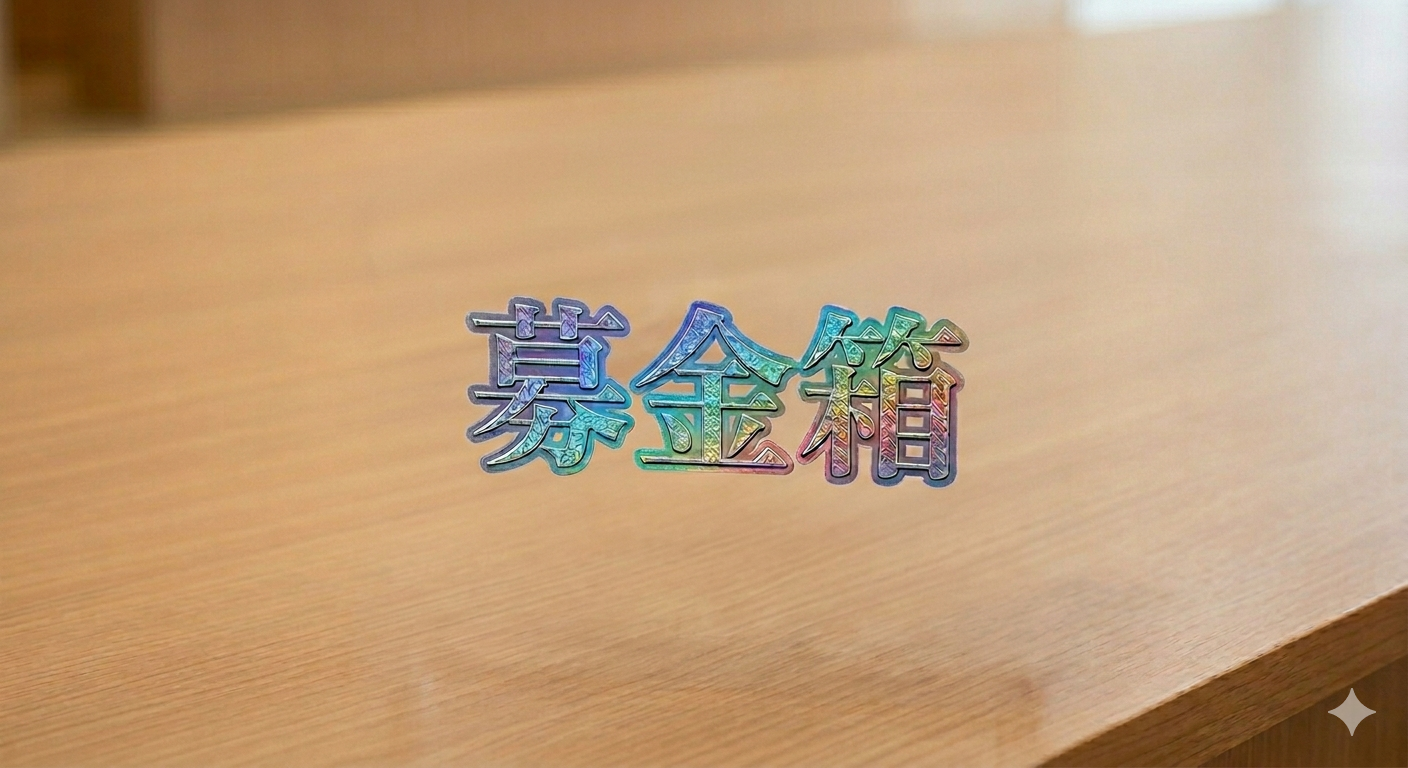
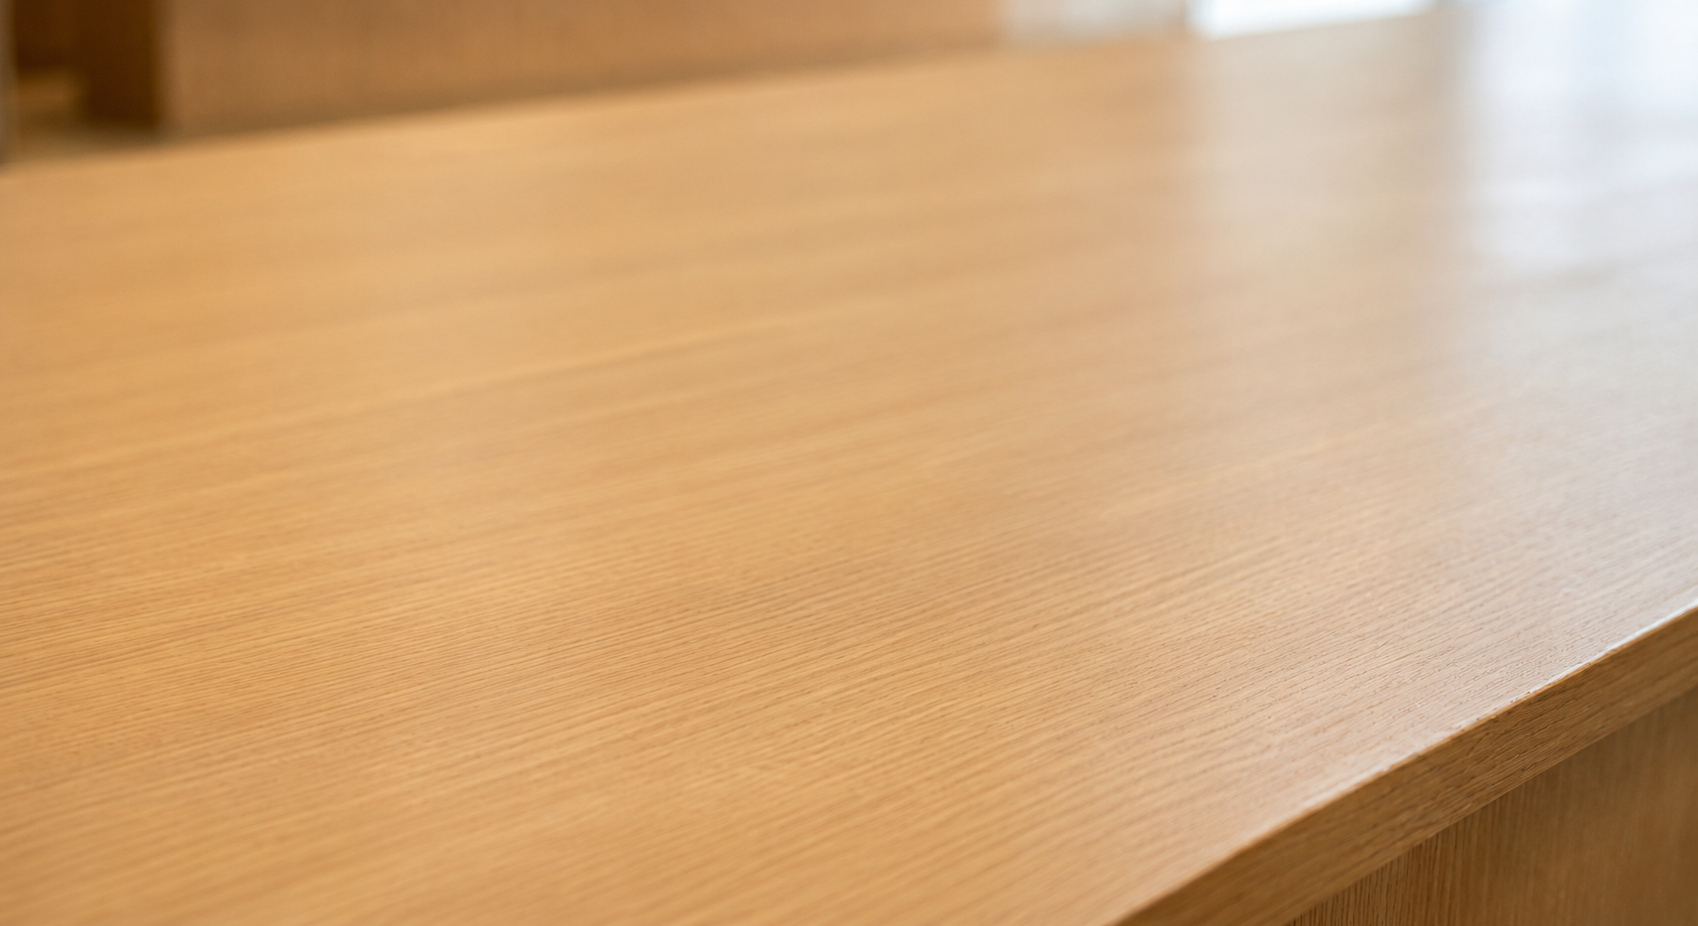
画像修正とLASTSTEP1修正

diff --git a/src/constants/gameData.ts b/src/constants/gameData.ts
@@ -107,7 +107,7 @@ export const GAME_STEPS: StepData[] = [
     unlockedPhotosAtTheme: ['D','E','F'],
     unlockedLocationItems: {
       D: ['紙パック'],
-      E: ['個包装のパック'],
+      E: ['パック'],
       F: ['短い個包装パック（左）', '長い個包装パック（右）']
     },
     partnerEvents: [
@@ -149,9 +149,6 @@ export const GAME_STEPS: StepData[] = [
       G: ['浴衣'],
       F: ['ドライヤー', 'ハブラシ', 'カミソリ']
     },
-    partnerEvents: [
-      { targetPhoto: 'E', displayPhotoName: '？', message: '球体のような形のものがないだろうか？' }
-    ],
   },
   {
     id: 4,
@@ -161,11 +158,16 @@ export const GAME_STEPS: StepData[] = [
     puzzleAnswer: 'だい',
     acceptedPuzzleAnswers: ['台'],
     showBlueAnswerEffect: true,
-    searchTarget: { location: 'E', position: '上', item: '浴衣' },
+    searchTarget: { location: 'G', position: '上', item: '浴衣' },
     unlockedPhotos: ['H'],
     updatedPhotosAtTheme: {'A': 'A4', 'F': 'F3', 'I': 'I2' }, 
+    unlockedPhotosAtTheme: ['K'],
     unlockedLocationItems: {
-      H: ['酒瓶','焼酎']
+      A: ['机'],
+      I: ['卓球台'],
+      K: ['カウンター'],
+      F: ['洗面台'],
+      H: ['酒瓶']
     },
   },
   {
@@ -181,8 +183,8 @@ export const GAME_STEPS: StepData[] = [
       acceptedAnswers: ['おんせんまんじゅう', 'オンセンマンジュウ', 'まんじゅう', '饅頭', 'マンジュウ'],
     },
     showBlueAnswerEffect: true,
-    searchTarget: { location: 'H', position: '右', item: 'アルミ缶(右)' },
-    unlockedPhotos: ['I'],
+    searchTarget: { location: 'H', position: '右', item: '酒瓶' },
+    unlockedPhotos: [],
     updatedPhotosAtPuzzle: {'A': 'A6', 'H': 'H2' },
     unlockedLocationItems: {
       A: ['墨汁', '饅頭', '盆', '扇子', 'イス'],
@@ -197,15 +199,6 @@ export const GAME_STEPS: StepData[] = [
           unlockItem: 'アルミ缶(右)',
           successMessage: 'どちらも形状も大きさも同じだが、見分けるのが得意でね...右がアルミ缶だ！！'
         },
-       },
-       { targetPhoto: 'H', displayPhotoName: '？', message: 'では左は何だ？',
-        questionAnswer: {
-          answer: 'スチール缶',
-          acceptedAnswers: ['すちーるかん', 'スチール缶', 'すちーるかん'],
-          unlockLocation: 'D',
-          unlockItem: 'スチール缶（左）',
-          successMessage: 'ルールによると、形状も大きさも同じ場合、物の種類が変わらないと可視化されない...。似ていることを考慮すると、左がスチール缶だ！！'
-        },
        }
     ],
   },
@@ -214,9 +207,13 @@ export const GAME_STEPS: StepData[] = [
     title: '提出場所：「く」',
     puzzleImage: '/images/step6.png',
     themeText: '尻に敷かれるもの',
-    puzzleAnswer: '6',
+    puzzleAnswer: 'ホログラム',
+    showBlueAnswerEffect: true,
+    unlockedPhotosAtTheme: [],
+    acceptedPuzzleAnswers: ['ほろぐらむ', 'hologram'],
     searchTarget: { location: 'A', position: '上', item: 'イス' },
     unlockedPhotos: ['J'],
+     updatedPhotosAtTheme: {'K': 'K2' },
     unlockedLocationItems: {
       J: ['体重計']
     },
@@ -226,9 +223,10 @@ export const GAME_STEPS: StepData[] = [
     title: '提出場所：「け」',
     puzzleImage: '/images/step7.png',
     themeText: '蜘蛛',
-    puzzleAnswer: '7',
+    puzzleAnswer: 'かんち',
+    acceptedPuzzleAnswers: ['完治', 'カンチ'],
     searchTarget: { location: 'J', position: '下', item: 'きつね' },
-    unlockedPhotos: ['K'],
+    unlockedPhotos: ['L'],
     unlockedLocationItems: {
       K: ['暖簾', '募金箱']
     },
@@ -241,7 +239,7 @@ export const LAST_STEP_SUBMISSIONS: LastStepSubmissionData[] = [
   { stepIndex: 2, label: '1-5', originalSubmittedItem: 'ライオンの銅像', retryItem: '机' },
   { stepIndex: 3, label: '2', originalSubmittedItem: '卵', retryItem: '横川' },
   { stepIndex: 4, label: '3', originalSubmittedItem: 'バスボール', retryItem: 'ピンポン玉' },
-  { stepIndex: 5, label: '4', originalSubmittedItem: 'ハンガー', retryItem: 'お金' },
+  { stepIndex: 5, label: '4', originalSubmittedItem: 'ハンガー', retryItem: '10円玉' },
   { stepIndex: 6, label: '5', originalSubmittedItem: '缶', retryItem: '1円玉' },
   { stepIndex: 7, label: '6', originalSubmittedItem: '座布団', retryItem: '座布団' },
   { stepIndex: 8, label: '7', originalSubmittedItem: '蜘蛛', retryItem: '蜘蛛', isPending: true },

diff --git a/src/components/GameInterface.tsx b/src/components/GameInterface.tsx
@@ -45,13 +45,13 @@ const CUT_IN_LINES = {
     { speaker: '相棒', text: 'あと一つ提出するだけだ！' },
     { speaker: 'ゲームマスター', text: '残念ですが、提出場所「お」が、たった今正解から不正解判定に変わりました' },
     { speaker: '相棒', text: '何だって！？謎の球体が一度正解になったのに、不正解に変わったの...か？ひとまず「お」の場所を見に行ってみるよ' },
-    { speaker: 'ゲームマスター', text: '一度不正解となったため、全てを再提出してもらいます。ただし、別解があるお題では同じものだと不正解となります。それに伴い、新たな機能もとい制約が解放されました' },
-    { speaker: 'ゲームマスター', text: '転送対象の名称まで指定することができるようになりました。名称を指定した場合、同時に複数個転送することもできます' },
-    { speaker: 'ゲームマスター', text: '我々はフェアさを大事にしているので、一つだけアドバイスを差し上げましょう。「お」を確認した後は、ひとまずお題「かけるもの」を再提出してみましょう' },
+    { speaker: 'ゲームマスター', text: '一度不正解となったため、全てを再提出してもらいます。ただし、別解があるお題では別解での回答してください。さらに、新たな制約が追加されました' },
+    { speaker: 'ゲームマスター', text: 'その制約とは、転送対象の名称の指定の必須化。名称を指定した場合、該当するものが同時に複数個転送されます' },
+    { speaker: 'ゲームマスター', text: '我々はフェアさを大事にしているので、一つだけアドバイスを差し上げましょう。「お」を確認した後は、ひとまずお題「アルミ」を再提出してみましょう' },
   ],
   lastStepTwoStart: [
     { speaker: '相棒', text: 'まさか募金箱のお金を移動させるなんて...。立山君はこういう時に頼もしいけど、友人の横山としては倫理観が心配だね' },
-    { speaker: 'ゲームマスター', text: 'ご安心ください。元々空の募金箱に6枚の硬貨、114円を事前に募金をしておきました。窃盗には当たらないのでご安心を' },
+    { speaker: 'ゲームマスター', text: 'ご安心ください。元々空の募金箱に2枚の硬貨、11円を事前に募金をしておきました。窃盗には当たらないのでご安心を' },
     { speaker: '相棒', text: 'なら、大丈夫か。あ、君に負けじと一つやってみたいことをしても良いかい？' },
     { speaker: '相棒', text: '実は提出時以外で一度だけ転送をさせる権利が僕に与えられていたんだけど、その権利をここで行使したい' },
     { speaker: '相棒', text: '僕の予想だと提出場所のどこかが温泉だと思うのだけど、温泉だと思う場所に一度球体として提出したものを転送してみたいんだ' },
@@ -405,7 +405,7 @@ export default function GameInterface() {
       searchLocation === 'K'
       && searchItem === '募金箱'
       && searchPosition === '中'
-      && matchesTextAnswer(lastStepOneName, ['お金'])
+      && matchesTextAnswer(lastStepOneName, ['1円玉'])
     ) {
       setErrorMsg('');
       setSearchItem('');
@@ -559,7 +559,7 @@ export default function GameInterface() {
               {phase === 'search' && (lastStep === 0 || lastStep === 1) && (
                 <div className="glass rounded-xl p-4 mb-4 border border-blue-500/30 shadow-[0_0_15px_rgba(59,130,246,0.1)] animate-in fade-in slide-in-from-top-2 duration-300">
                   <h2 className="text-blue-400 text-sm font-semibold mb-1">現在のお題</h2>
-                  <p className="text-lg text-slate-100">{lastStep === 1 ? 'かけるもの' : currentStep.themeText}</p>
+                  <p className="text-lg text-slate-100">{lastStep === 1 ? 'アルミ' : currentStep.themeText}</p>
                 </div>
               )}
 
@@ -614,7 +614,7 @@ export default function GameInterface() {
                 ) : lastStep === 1 ? (
                   <form onSubmit={handleLastStepOneSubmit} className="flex flex-col gap-3">
                     <div className="rounded-xl border border-amber-500/30 bg-amber-950/30 p-3">
-                      <h3 className="text-sm font-bold text-amber-300">「かけるもの」を再提出</h3>
+                      <h3 className="text-sm font-bold text-amber-300">「アルミ」を再提出</h3>
                       <p className="mt-1 text-xs leading-relaxed text-slate-300">
                         場所・アイテム・位置を選択し、転送対象の名称も指定してください。
                       </p>